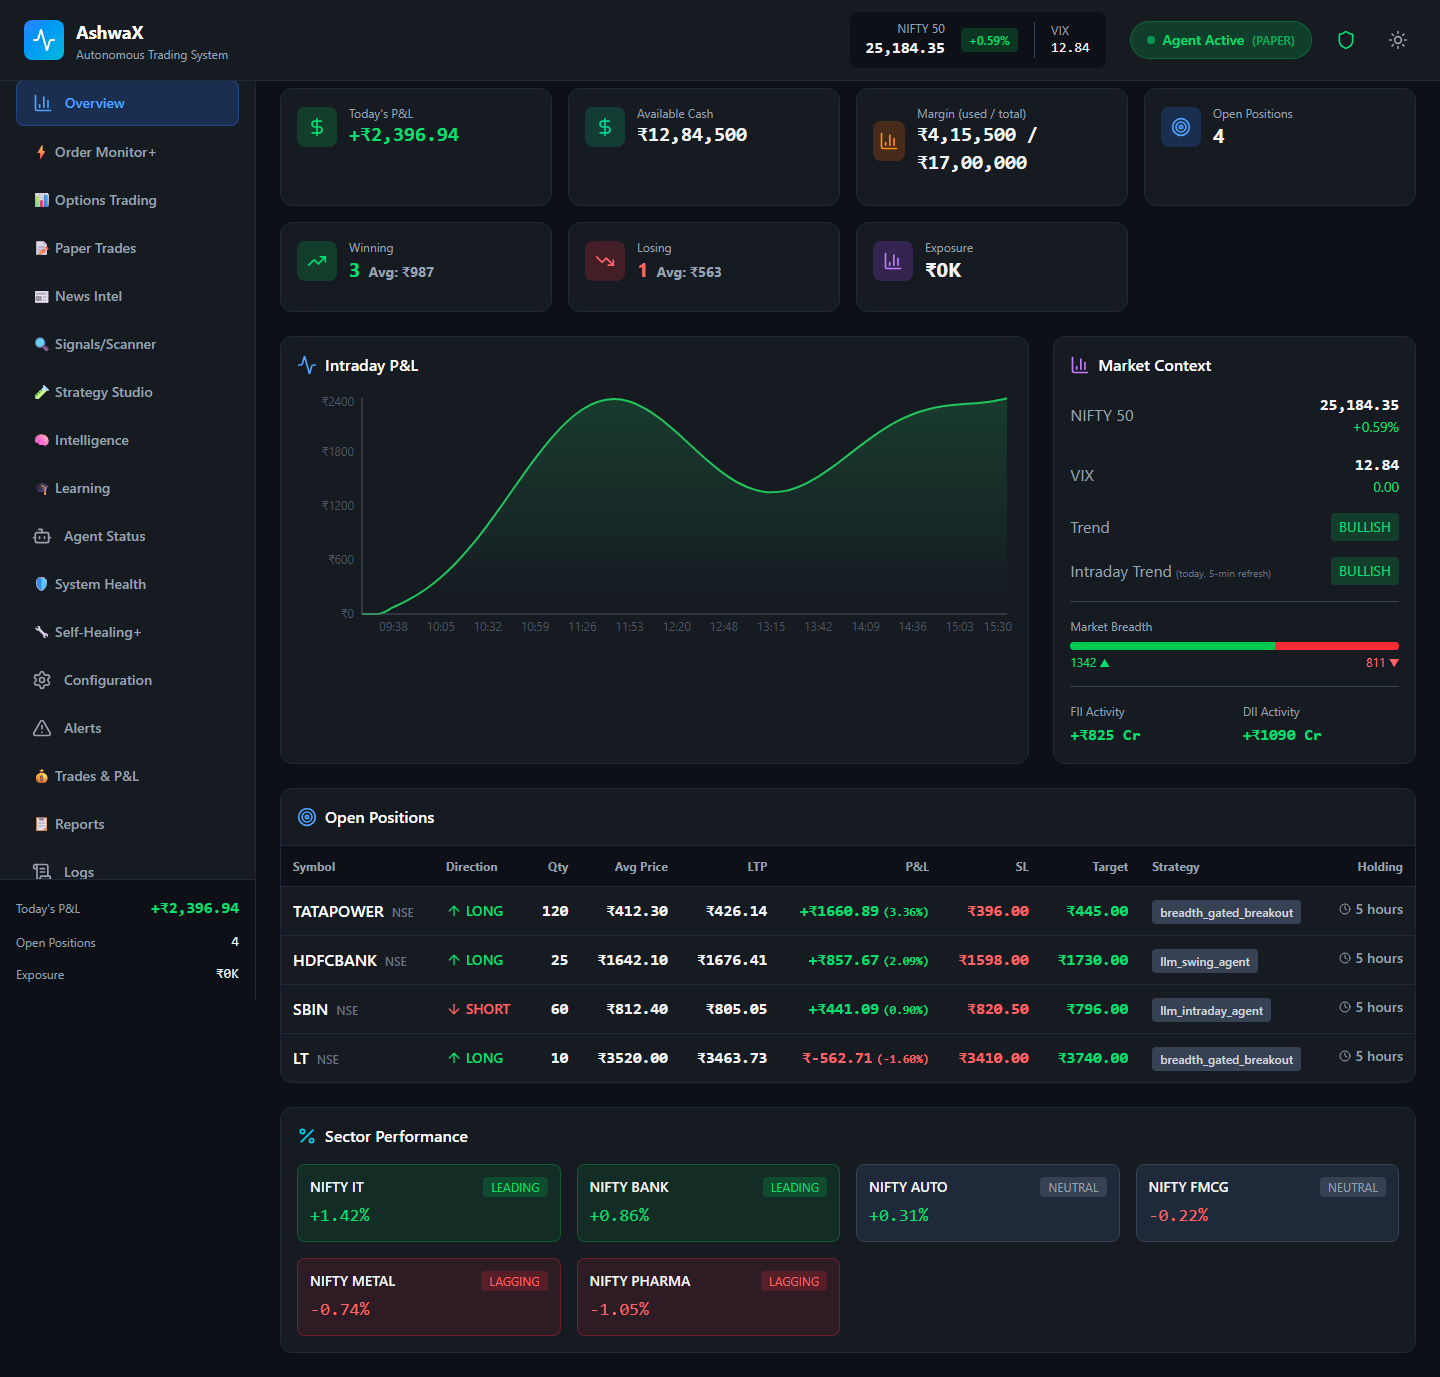
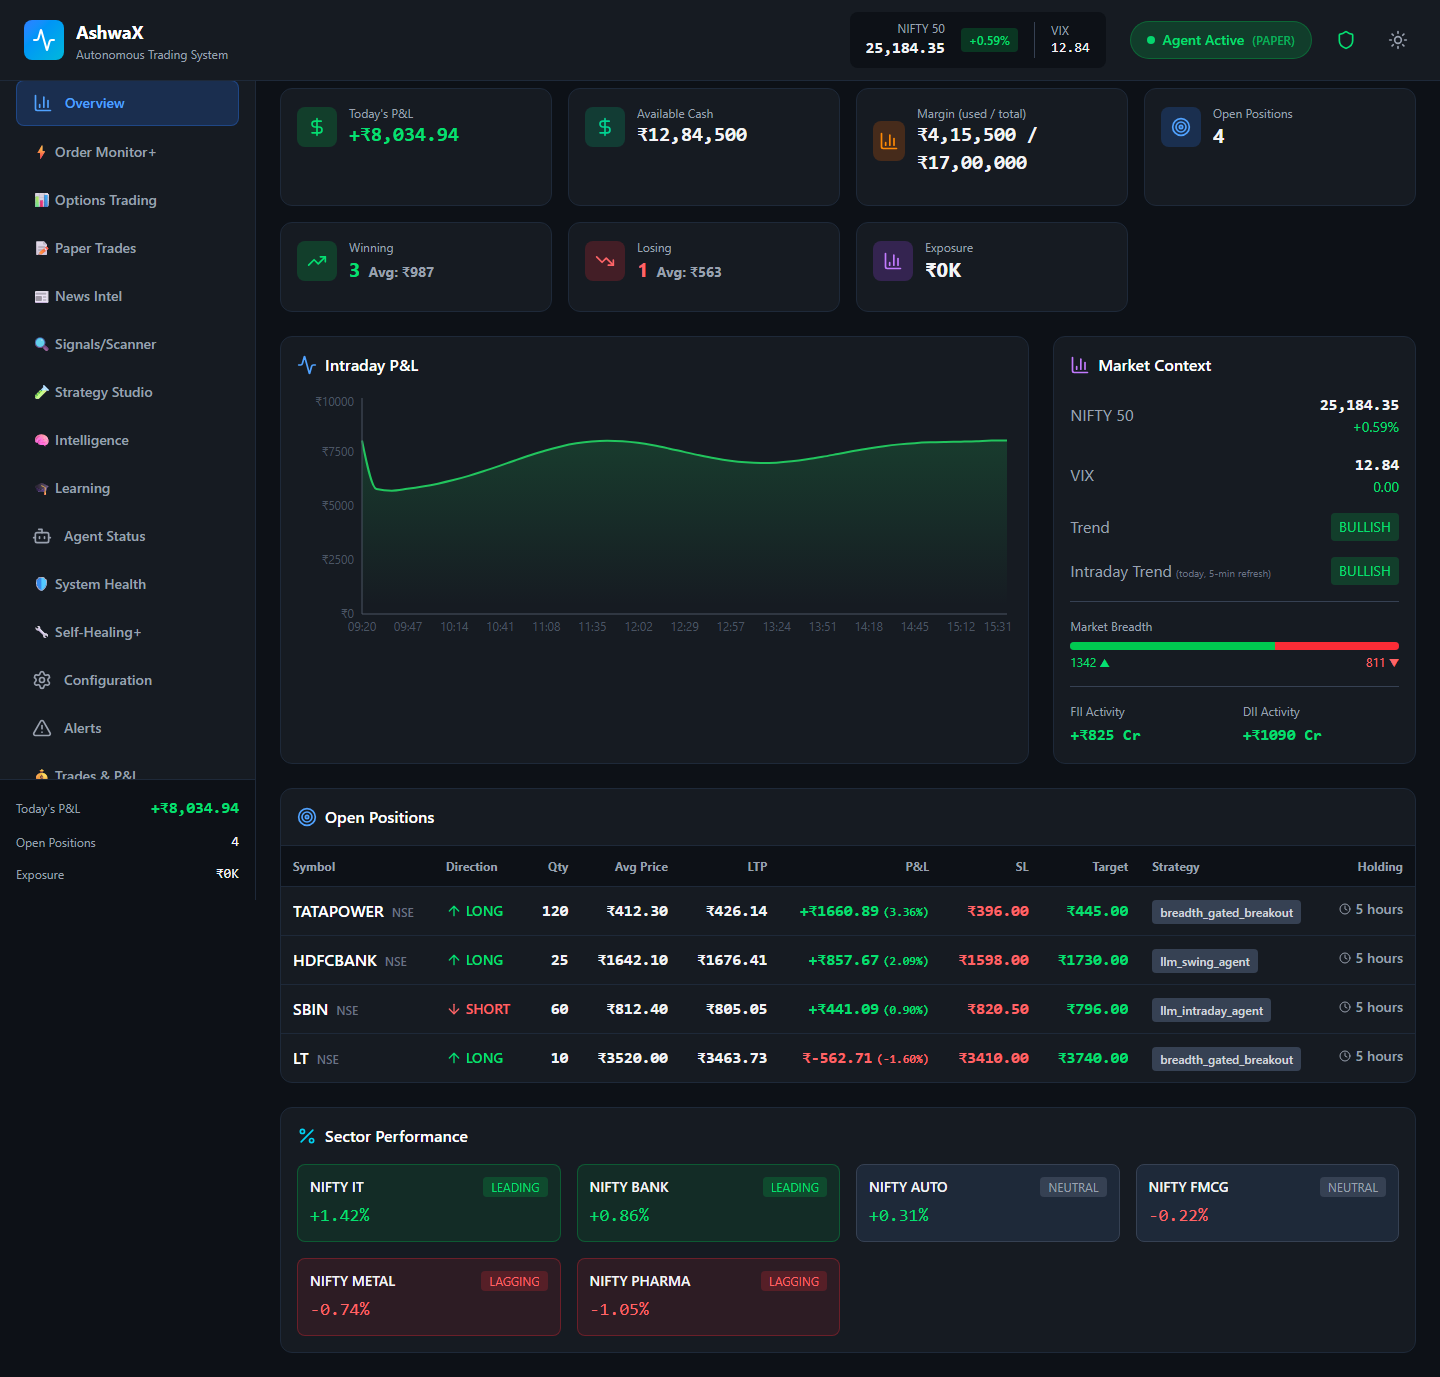
Docs: expanded README (brokers, Phase 1, roadmap, dashboard tour), updated INSTALL, sample screenshots

diff --git a/README.md b/README.md
@@ -8,14 +8,26 @@ Risk Manager and an independent LLM second opinion before it reaches a broker.
 > financial advice. If you switch anything to live, you alone are responsible for the orders
 > it places.
 
+![Dashboard overview (sample data)](assets/screenshots/overview.png)
+
+<sub>All screenshots in this README use made-up sample data, not a real account.</sub>
+
+**Contents:** [How it works](#how-it-works) · [Supported brokers](#supported-brokers) ·
+[Phase 1](#phase-1--what-is-in-this-release) · [Roadmap](#roadmap) ·
+[Dashboard tour](#dashboard-tour) · [Quick start](#quick-start) ·
+[Configuration](#configuration-at-a-glance) · [Safety design](#safety-design) ·
+[Project layout](#whats-inside)
+
+---
+
 ## How it works
 
 ![How AshwaX works](assets/how-it-works.svg)
 
-1. **Data in** — live prices and option chains from the broker (Zerodha Kite Connect; Angel One
-   optional), NSE reference files (bhavcopy, instruments, holidays, expiries), fundamentals
-   (yfinance), a news feed tagged by a background LLM, and a market-regime / breadth model.
-   Everything is stored in PostgreSQL, which is the single source of truth for state.
+1. **Data in** — live prices and option chains from the broker, NSE reference files (bhavcopy,
+   instruments, holidays, expiries), fundamentals (yfinance), a news feed tagged by a background
+   LLM, and a market-regime / breadth model. Everything is stored in PostgreSQL, which is the
+   single source of truth for state.
 2. **Strategy engines** — each strategy enabled in `config/strategies_registry.json` produces a
    signal that already includes its entry, stop and target:
    - **Swing (CNC)** — rule-based specs (USS JSON, compiled) plus an LLM idea-generation agent.
@@ -40,6 +52,181 @@ Risk Manager and an independent LLM second opinion before it reaches a broker.
    only real data. A learning engine tracks expectancy, profit factor and slippage and feeds
    strategy-health scores back into gate G6. It never promotes a strategy to live on its own.
 
+---
+
+## Supported brokers
+
+| Broker | Status | Notes |
+|---|---|---|
+| **Paper (built-in)** | ✅ Default, fully supported | Simulated fills, stops, GTT-style OCO and costs. No account needed. Everything in the dashboard works with it. |
+| **Zerodha Kite Connect** | ✅ Primary live broker | Quotes, option chains, historical data, margins, orders, native GTT for swing stops, automated daily TOTP login. |
+| **Angel One SmartAPI** | 🟡 Adapter implemented, not yet validated live | Quotes, history, option quotes, order placement / status. It has no native GTT, so stops use the manual SL / target-order fallback. Treat as experimental. |
+| **Upstox** | 🔲 Planned | Capability profile exists in `src/brokers/capability_matrix.json`; no adapter yet. |
+
+Select the broker with `BROKER=paper | kite | angel_one` in `.env` (unset = paper). Every adapter
+implements the same `BrokerInterface` (`src/brokers/base.py`), so the CRM, strategies and
+dashboard never call a broker directly. Per-broker differences — product codes, GTT support,
+bracket orders, websocket limits — are declared in `src/brokers/capability_matrix.json`.
+
+Exchanges and instruments: NSE cash equities (CNC delivery and MIS intraday) and NSE index
+options on NIFTY / BANKNIFTY. Futures, commodities and currency are out of scope.
+
+---
+
+## Phase 1 — what is in this release
+
+Phase 1 is a **paper-first trading lab with a hardened risk core**. The goal is to collect
+honest, after-cost forward results for each strategy before any real money is involved.
+
+**Included**
+
+- Central Risk Manager (G0–G10), %-of-equity sizing, drawdown size steps, daily-loss breaker with
+  force-flatten, absolute equity floor, and a master paper lock.
+- Paper and live execution paths that share one code path, with protective stops placed first.
+- Order monitor, reconciler against the broker, GTT backup orders, append-only trade ledger.
+- Independent LLM review (G9) with a multi-provider failover chain and per-purpose daily call caps.
+- News ingestion and classification, market regime, breadth, and sector rotation models.
+- Learning engine: expectancy, calibration of LLM confidence, failure attribution, strategy
+  health tiers that shrink position size automatically.
+- React dashboard with 17 tabs, Telegram alerts, PostgreSQL storage with auto-applied migrations.
+- Backtest and research scripts in `scripts/` and `scripts/research/`, run at 0.10 % cost.
+
+**Strategies shipped (all `execution_mode: "paper"`)**
+
+| Strategy | Segment | State |
+|---|---|---|
+| `breadth_gated_breakout` | Swing | Enabled, paper. Takes no trades while market breadth is weak. |
+| `llm_swing_agent` | Swing | Enabled, paper. LLM proposes ideas; CRM and G9 gate them. |
+| `llm_intraday_agent` | Intraday | Enabled, paper-locked. |
+| `options_seller_desk_v3` | Options | Enabled, paper. Defined-risk credit spreads on NIFTY / BANKNIFTY. |
+| `nifty_weekly_condor_simple` | Options | Enabled, paper. Weekly iron condor. |
+| `options_expiry_day` | Options | Enabled, paper. NIFTY expiry-day short strangle with per-leg stops. |
+| `options_intraday_short_premium` | Options | Enabled, paper. Daily NIFTY strangle with per-leg stop. |
+| `minervini_vcp`, `oneil_canslim`, `news_catalyst_momentum` | Swing / intraday | **Disabled.** Kept as reference; `minervini_vcp` failed its hold-out test. |
+
+A strategy being enabled does **not** mean it has a proven edge. Treat every result as
+unproven until it clears the promotion bar in [Going live](INSTALL.md#14-before-you-ever-go-live).
+
+**Known limits of Phase 1**
+
+- Windows is the tested platform. Stored broker credentials use the Windows machine-wide
+  DPAPI store; Linux / macOS work for paper trading only.
+- No container images yet — run it with Python, PostgreSQL and Node as described in
+  [INSTALL.md](INSTALL.md).
+- Only Kite Connect is run against real accounts. Angel One is unvalidated.
+- Option stop-losses are enforced by the system, not by resting broker-side orders.
+
+---
+
+## Roadmap
+
+The items below are plans, not promises, and are not in this release. They are ordered by
+how much they reduce risk, not by how exciting they are.
+
+**Phase 2 — safe to run live, anywhere**
+
+- Broker-side resting stop orders for option legs, so a stop survives a crash of this process.
+- Docker image and `docker-compose` (app + PostgreSQL + Redis), with a cross-platform secret
+  store so the stack runs on Linux without Windows DPAPI.
+- Validate the Angel One adapter end to end in paper-vs-broker comparison runs.
+- Promotion tooling: a report that checks each strategy against the written bar (trade count,
+  profit factor, expectancy, slippage vs model) before `execution_mode` may be changed.
+
+**Phase 3 — broader coverage**
+
+- Upstox adapter, using the capability profile already declared.
+- Walk-forward and Monte-Carlo validation built into the backtester, with out-of-sample
+  reports saved next to each strategy.
+- Better execution quality: slippage model calibrated from real fills, smarter order slicing.
+
+**Phase 4 — usability**
+
+- Guided setup in the dashboard (broker login, keys, Telegram) instead of editing `.env`.
+- Strategy builder UI on top of the USS JSON spec.
+- Hosted / multi-account mode with per-account risk limits.
+
+Ideas that need data before they are built (for example new options structures or intraday
+equity edges) are tested in `scripts/research/` first and only become strategies if they pass
+out-of-sample after costs.
+
+---
+
+## Dashboard tour
+
+Sample data throughout. Open `http://localhost:5173` after starting the system.
+
+| Tab | What it shows |
+|---|---|
+| **Overview** — [screenshot](assets/screenshots/overview.png) | Today's P&L, funds and margin, intraday P&L curve, market regime, breadth, FII / DII, open positions, sector strength. |
+| **Order Monitor+** — [screenshot](assets/screenshots/order-monitor.png) | Open and closed positions, swing book, GTT backup orders, monitor health and auto-actions. |
+| **Options Trading** — [screenshot](assets/screenshots/options.png) | Each options structure with legs, live P&L, max profit / loss, breakevens, Greeks budget. |
+| **Paper Trades** — [screenshot](assets/screenshots/paper-trades.png) | Every simulated trade across segments with LLM verdict and regime. |
+| **News Intel** — [screenshot](assets/screenshots/news.png) | Classified headlines with sentiment, impact and the trading action taken. |
+| **Signals / Scanner** — [screenshot](assets/screenshots/scanner.png) | Nightly VCP setups and relative-strength leaders. |
+| **Strategy Studio** — [screenshot](assets/screenshots/strategy-studio.png) | Strategy toggles, paper / live mode per strategy, backtest results and pass / fail. |
+| **Intelligence** — [screenshot](assets/screenshots/intelligence.png) | LLM and agent intelligence status. |
+| **Learning** — [screenshot](assets/screenshots/learning.png) | Strategy health tiers, win / loss attribution, LLM calibration, detected patterns. |
+| **Agent Status** — [screenshot](assets/screenshots/agent-status.png) | Processes, database, broker and LLM connection health. |
+| **System Health** — [screenshot](assets/screenshots/system-health.png) | LLM provider chains, gap risk, edge decay, cost erosion. |
+| **Self-Healing+** — [screenshot](assets/screenshots/self-healing.png) | Reconciliation runs and automatic repairs. |
+| **Configuration** — [screenshot](assets/screenshots/configuration.png) | Live editor for every `config/*.json` file. |
+| **Alerts** — [screenshot](assets/screenshots/alerts.png) | Breaches and system alerts. |
+| **Trades & P&L** — [screenshot](assets/screenshots/trades-pnl.png) | After-cost P&L by segment, weekly bars, cost-erosion gate. |
+| **Reports** — [screenshot](assets/screenshots/reports.png) | Tax and performance reports. |
+| **Logs** | Every component's log file, with paging and download. |
+
+---
+
+## Quick start
+
+```bash
+git clone <your-fork-url> AshwaX && cd AshwaX
+python -m venv .venv && source .venv/bin/activate     # Windows: .venv\Scripts\activate
+pip install -e ".[dev]"
+cp .env.example .env                                  # set DB_URL at minimum
+createdb ashwax                                       # empty PostgreSQL database
+cd dashboard_react && npm install && cd ..
+python launcher.py                                    # then open http://localhost:5173
+```
+
+The full step-by-step guide, including broker login, LLM keys, Telegram, running as a Windows
+service and troubleshooting, is in **[INSTALL.md](INSTALL.md)**.
+
+---
+
+## Configuration at a glance
+
+| File | Controls |
+|---|---|
+| `config/global.json` | segments (`paper_mode` per intraday / swing / options), LLM chains, feature flags |
+| `config/capital.json` | every money limit, as **% of live equity** (shared risk pool, drawdown steps) |
+| `config/operator.json` | hard limits and `account.paper_mode_locked` (master paper lock) |
+| `config/strategies_registry.json` | which strategies are enabled; `execution_mode` paper/live per strategy |
+| `config/options_settings.json` | options desk: structures, stops, Greeks budgets, adjustments |
+| `config/market_hours.json` | market / AMO windows |
+| `config/charges.json` | brokerage, STT, GST and stamp duty for after-cost P&L |
+
+Every file has `_note` fields that explain each key. `config/examples/` keeps a paper-only
+baseline that a unit test checks.
+
+---
+
+## Safety design
+
+- **Paper first.** This repo ships with `paper_mode_locked: true`, every segment set to
+  `paper_mode: true` and every strategy set to `execution_mode: "paper"`. Going live means
+  changing all three on purpose.
+- **Risk before profit.** Position size comes from % of live equity and the distance to the
+  stop. A daily-loss breaker force-flattens positions and an absolute equity floor halts trading.
+- **Fail closed.** If a required LLM verdict, breadth data or another gate input is missing, the
+  trade is skipped. It is never guessed through.
+- **Backtests only add confidence.** A weak backtest lowers confidence but cannot hard-block a
+  trade by itself, and a good backtest is not enough to promote a strategy to live.
+- **Everything is logged.** Signals, gate decisions, LLM verdicts, orders and fills are all
+  stored and can be replayed.
+
+---
+
 ## What's inside
 
 | Area | Where |
@@ -57,50 +244,6 @@ Risk Manager and an independent LLM second opinion before it reaches a broker.
 | Config (single source of truth) | `config/*.json` |
 | DB schema (auto-applied) | `migrations/*.sql` |
 | Backtests / research scripts | `scripts/`, `scripts/research/` |
-
-## Quick start
-
-```bash
-git clone <your-fork-url> AshwaX && cd AshwaX
-python -m venv .venv && source .venv/bin/activate     # Windows: .venv\Scripts\activate
-pip install -e ".[dev]"
-cp .env.example .env                                  # set DB_URL at minimum
-createdb ashwax                                       # empty PostgreSQL database
-cd dashboard_react && npm install && cd ..
-python launcher.py                                    # API :3000 + dashboard :5173
-```
-
-The full step-by-step guide, including broker login, LLM keys, Telegram, running as a Windows
-service and troubleshooting, is in **[INSTALL.md](INSTALL.md)**.
-
-## Configuration at a glance
-
-| File | Controls |
-|---|---|
-| `config/global.json` | segments (`paper_mode` per intraday / swing / options), LLM chains, feature flags |
-| `config/capital.json` | every money limit, as **% of live equity** (shared risk pool, drawdown steps) |
-| `config/operator.json` | hard limits and `account.paper_mode_locked` (master paper lock) |
-| `config/strategies_registry.json` | which strategies are enabled; `execution_mode` paper/live per strategy |
-| `config/options_settings.json` | options desk: structures, stops, Greeks budgets, adjustments |
-| `config/market_hours.json` | market / AMO windows |
-| `config/charges.json` | brokerage, STT, GST and stamp duty for after-cost P&L |
-
-Every file has `_note` fields that explain each key. `config/examples/` keeps a paper-only
-baseline that a unit test checks.
-
-## Safety design
-
-- **Paper first.** This repo ships with `paper_mode_locked: true`, every segment set to
-  `paper_mode: true` and every strategy set to `execution_mode: "paper"`. Going live means
-  changing all three on purpose.
-- **Risk before profit.** Position size comes from % of live equity and the distance to the
-  stop. A daily-loss breaker force-flattens positions and an absolute equity floor halts trading.
-- **Fail closed.** If a required LLM verdict, breadth data or another gate input is missing, the
-  trade is skipped. It is never guessed through.
-- **Backtests only add confidence.** A weak backtest lowers confidence but cannot hard-block a
-  trade by itself, and a good backtest is not enough to promote a strategy to live.
-- **Everything is logged.** Signals, gate decisions, LLM verdicts, orders and fills are all
-  stored and can be replayed.
 
 ## Tests
 

diff --git a/INSTALL.md b/INSTALL.md
@@ -18,6 +18,7 @@ after that.
 - [12. Verify the install](#12-verify-the-install)
 - [13. Troubleshooting](#13-troubleshooting)
 - [14. Before you ever go live](#14-before-you-ever-go-live)
+- [Docker](#docker)
 
 ---
 
@@ -100,14 +101,16 @@ Paper mode runs without a broker. For live prices, option chains and (much later
 orders, connect Zerodha Kite Connect:
 
 1. Create an app at <https://developers.kite.trade> and note its API key and secret.
-2. Put them in `.env`:
+2. On Windows, install the credential-store dependency used by the login helper:
+   `pip install pywin32` (not needed for paper mode).
+3. Put the API key, secret and user ID in `.env`:
    ```ini
    KITE_API_KEY=...
    KITE_SECRET=...
    KITE_USER_ID=...
    # KITE_ACCESS_TOKEN is written automatically each day; leave it blank
    ```
-3. For automated daily login (needs the `[autologin]` extra), store your password and TOTP
+4. For automated daily login (needs the `[autologin]` extra), store your password and TOTP
    secret once in the OS-protected machine store. They are never written to a file:
    ```bash
    python -m src.brokers.kite_auth --setup
@@ -169,11 +172,11 @@ It starts:
 
 | Component | Address |
 |---|---|
-| FastAPI backend | <http://localhost:3000> |
-| React dashboard | <http://localhost:5173> |
+| API backend (`src/api/server.py`) | internal, port 3000 — the dashboard talks to it; you never open it |
+| **React dashboard — open this** | <http://localhost:5173> |
 | Orchestrator (scan / risk / exit loops) | background process |
 
-`launcher.py` is the **only** supported entry point; don't start uvicorn or the orchestrator
+`launcher.py` is the **only** supported entry point; don't start the API server or the orchestrator
 separately. Press `Ctrl+C` to stop everything cleanly.
 
 On the first start, AshwaX applies the migrations and begins backfilling market history. The
@@ -236,3 +239,23 @@ Do this only after the strategy has a long, positive **after-cost** paper record
 dozens of trades, profit factor ≥ 1.2, positive expectancy), the money limits in
 `config/capital.json` fit your account, and broker-side protective stops are confirmed working.
 To return to safety at any time, run `cp config/examples/*.json config/` and restart.
+
+## Docker
+
+**Not supported yet.** There is no Dockerfile or `docker-compose.yml` in this release, and
+the stack can't simply be containerised as-is for these reasons:
+
+- Kite credentials are stored with the Windows machine-wide DPAPI store
+  (`src/brokers/machine_secrets.py`), which does not exist on Linux containers. Paper mode is
+  unaffected.
+- `launcher.py` starts the dashboard with the Vite dev server and is written for a Windows
+  console.
+- The dashboard code calls the API at a hardcoded `localhost:3000`, which only works when the browser can reach that port directly.
+
+A container setup is on the [roadmap](README.md#roadmap). Until then, run the PostgreSQL
+database in Docker if you like and the rest natively:
+
+```bash
+docker run -d --name ashwax-db -e POSTGRES_PASSWORD=<your-password> -e POSTGRES_DB=ashwax   -p 5432:5432 postgres:16
+# DB_URL=postgresql://postgres:<your-password>@localhost:5432/ashwax
+```
